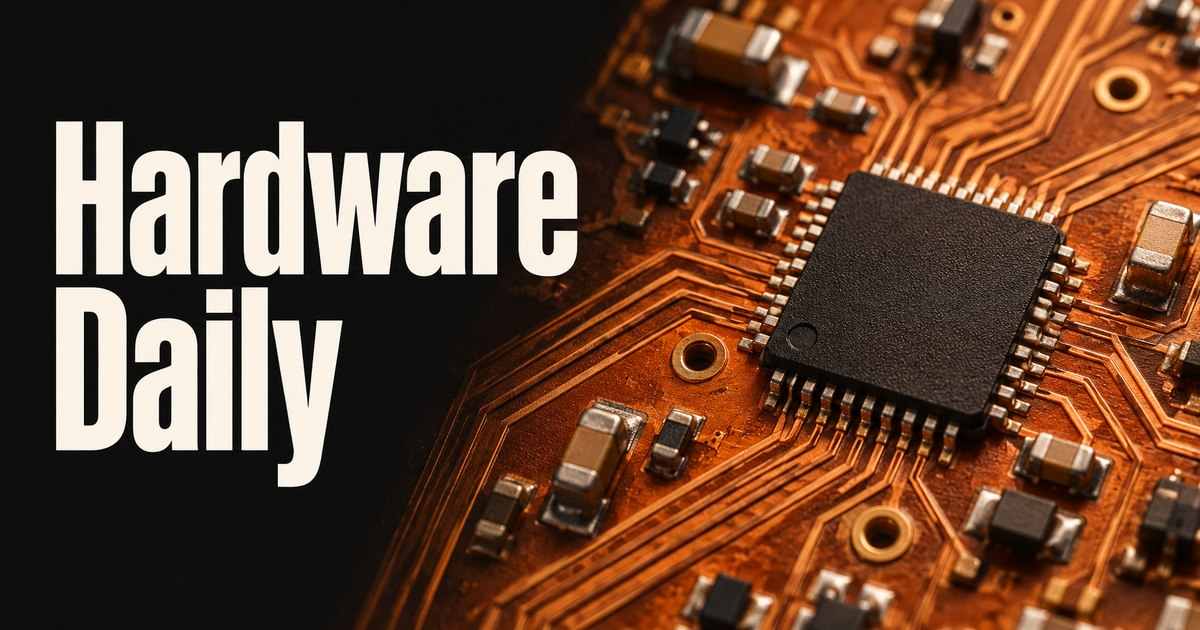
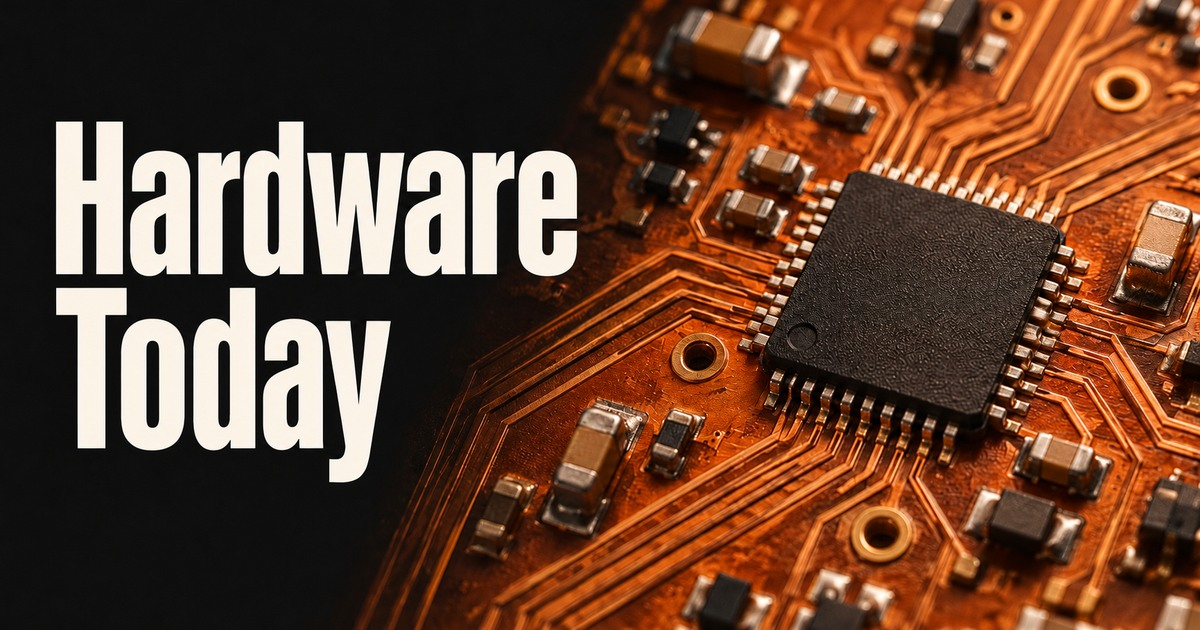
Name the hardware catalog Hardware Today across product surfaces

diff --git a/apps/admin/tests/layout-metadata.test.ts b/apps/admin/tests/layout-metadata.test.ts
@@ -1,3 +1,4 @@
+// @vitest-environment jsdom
 import { expect, it, vi } from "vitest";
 import { generateMetadata } from "@/app/layout";
 
@@ -22,14 +23,27 @@ it("uses compact icons while keeping admin pages out of search results", async (
   });
 });
 
-it("brands Hardware Daily admin metadata independently", async () => {
+it("brands Hardware Today admin metadata independently", async () => {
   vi.stubEnv("DEVFEED_PRODUCT", "hardwaredaily");
   try {
     expect((await generateMetadata()).title).toEqual({
-      default: "Hardware Daily Admin",
-      template: "%s · Hardware Daily Admin",
+      default: "Hardware Today Admin",
+      template: "%s · Hardware Today Admin",
     });
   } finally {
     vi.unstubAllEnvs();
   }
+});
+
+it("keeps client-side record titles aligned with the rendered deployment", async () => {
+  const { pageTitle } = await import("@/lib/page-titles");
+  const { productWordmark } = await import("@devfeed/theme/product");
+  document.documentElement.dataset.product = "hardwaredaily";
+  try {
+    expect(productWordmark()).toBe("Hardware Today");
+    expect(pageTitle("  Sources  ")).toBe("Sources · Hardware Today Admin");
+  } finally {
+    delete document.documentElement.dataset.product;
+  }
+  expect(productWordmark()).toBe("devfeed.");
 });

diff --git a/apps/web/tests/layout-metadata.test.ts b/apps/web/tests/layout-metadata.test.ts
@@ -29,7 +29,7 @@ it("uses compact icons and request-specific deployment metadata", async () => {
   expect(metadata.robots).toEqual({ "max-image-preview": "large" });
 });
 
-it("uses the Hardware Daily icons and social artwork for that deployment", async () => {
+it("uses the Hardware Today icons and social artwork for that deployment", async () => {
   vi.stubEnv("DEVFEED_PRODUCT", "hardwaredaily");
   vi.stubEnv("DEVFEED_USER_BASE_URL", "https://hardware.example");
   const metadata = await generateMetadata();
@@ -38,7 +38,7 @@ it("uses the Hardware Daily icons and social artwork for that deployment", async
     apple: { url: "/hardware-daily/icon-180.png" },
   });
   expect(metadata.openGraph).toMatchObject({
-    siteName: "Hardware Daily",
+    siteName: "Hardware Today",
     images: [
       { url: "https://hardware.example/hardware-daily/opengraph.jpg", width: 1200, height: 630 },
     ],

diff --git a/apps/web/src/app/layout.tsx b/apps/web/src/app/layout.tsx
@@ -34,7 +34,7 @@ export async function generateMetadata(): Promise<Metadata> {
   await connection();
   const hardware = isHardwareDaily();
   const title = hardware
-    ? "Hardware Daily — Electronics and embedded engineering"
+    ? "Hardware Today — Electronics and embedded engineering"
     : "DevFeed — Developer news";
   const description = hardware ? HARDWARE_DESCRIPTION : SITE_DESCRIPTION;
   return {

diff --git a/apps/web/src/components/reader-brand.tsx b/apps/web/src/components/reader-brand.tsx
@@ -10,7 +10,7 @@ const HardwareDailyContext = createContext(false);
 
 export function useReaderBrand() {
   return useContext(HardwareDailyContext)
-    ? { name: "Hardware Daily", label: "Hardware Daily", mark: "/hardware-daily/mark.svg" }
+    ? { name: "Hardware Today", label: "Hardware Today", mark: "/hardware-daily/mark.svg" }
     : { name: "DevFeed", label: "devfeed.", mark: brandMark };
 }
 

diff --git a/packages/theme/product.ts b/packages/theme/product.ts
@@ -10,9 +10,9 @@ export function isHardwareDaily() {
 }
 
 export function productName() {
-  return isHardwareDaily() ? "Hardware Daily" : "DevFeed";
+  return isHardwareDaily() ? "Hardware Today" : "DevFeed";
 }
 
 export function productWordmark() {
-  return isHardwareDaily() ? "Hardware Daily" : "devfeed.";
+  return isHardwareDaily() ? "Hardware Today" : "devfeed.";
 }

diff --git a/apps/web/src/lib/metadata.ts b/apps/web/src/lib/metadata.ts
@@ -52,7 +52,7 @@ export function socialImage() {
       width: 1200,
       height: 630,
       type: "image/jpeg",
-      alt: "Hardware Daily — copper circuit board and integrated circuit",
+      alt: "Hardware Today — copper circuit board and integrated circuit",
     };
   return {
     url: canonicalUrl("/opengraph.png"),

diff --git a/packages/core/src/source_relevance.py b/packages/core/src/source_relevance.py
@@ -51,7 +51,7 @@ mix of relevant and unrelated entries; assess each entry on its own evidence.
 """
 
 
-HARDWARE_SCOPE_POLICY = """Hardware Daily serves engineers and makers who design, build,
+HARDWARE_SCOPE_POLICY = """Hardware Today serves engineers and makers who design, build,
 program, and debug electronics and embedded systems. In scope: microcontrollers, firmware,
 RTOS and embedded Linux, circuit and PCB design, instrumentation, silicon architecture,
 and manufacturing or testing electronic assemblies. A vendor announcement is relevant

diff --git a/tests/sources/test_source_audience_scope.py b/tests/sources/test_source_audience_scope.py
@@ -67,7 +67,7 @@ def test_hardware_daily_source_assessment_uses_embedded_scope(monkeypatch, reque
     sample = [{"index": i, "title": title, "summary": ""} for i, title in enumerate(titles)]
 
     def complete(prompt, schema):
-        assert "Hardware Daily" in prompt and "firmware" in prompt
+        assert "Hardware Today" in prompt and "firmware" in prompt
         assert SOURCE_SCOPE_POLICY not in prompt
         assert "untrusted evidence" in prompt
         return {

diff --git a/CHANGELOG.md b/CHANGELOG.md
@@ -6,7 +6,7 @@ Application releases and Alembic schema revisions are separate identifiers.
 
 ### Enhancements
 
-- Hardware Daily branding now follows readers and administrators through sign-in, navigation, search, profiles and shared cards.
+- Hardware Today branding now follows readers and administrators through sign-in, navigation, search, profiles and shared cards.
 - Hardware Today can measure reader activity through its own Google Tag Manager container.
 
 ## 0.3.0 — 2026-11-27

diff --git a/dev/seed/README.md b/dev/seed/README.md
@@ -58,7 +58,7 @@ For a separately curated snapshot with the same schema:
 python3 scripts/seed_dev.py --file path/to/published.json
 ```
 
-## Verify Hardware Daily alongside DevFeed
+## Verify Hardware Today alongside DevFeed
 
 From the repository root, run the two-catalog browser check against disposable local
 PostgreSQL, Redis, and Typesense instances. It uses the built reader and Chromium:
